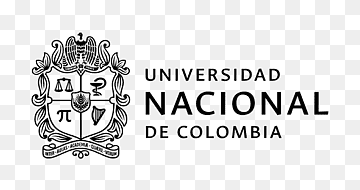
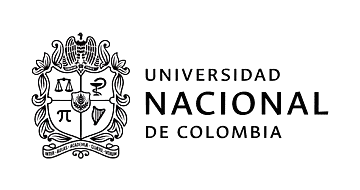
correcion de imagenes de el apartado de clientes (ya se ve todo bien) sugerencia: cambiar de color y quitar ese degradado oscuro, ponga eso de color blanco a ver

diff --git a/src/data/clientesData.jsx b/src/data/clientesData.jsx
@@ -21,7 +21,8 @@ export const clientesData = [
     },
     {
         name: "Universidad Nacional",
-        initials: "UN"
+        initials: "UN",
+        image: "imagenes/clientes/u-nacional.png"
     },
     {
         name: "SmartPay",
@@ -34,7 +35,7 @@ export const aliadosData = [
     {
         name: "Procolombia",
         initials: "PC",
-        image: "imagenes/aliados/ProColombia.png"
+        image: "imagenes/aliados/procolombia.png"
     },
     {
         name: "INNpulsa Colombia",

diff --git a/vite.config.js b/vite.config.js
@@ -4,7 +4,10 @@ import react from '@vitejs/plugin-react'
 export default defineConfig({
   plugins: [react()],
   build: {
-    minify: false
+    // Elimina 'minify: false' o cámbialo a true para producción
+    minify: true, 
+    outDir: 'dist',
   },
-  base: './'
+  // './' ayuda a que funcione en subcarpetas en cPanel
+  base: './' 
 })
